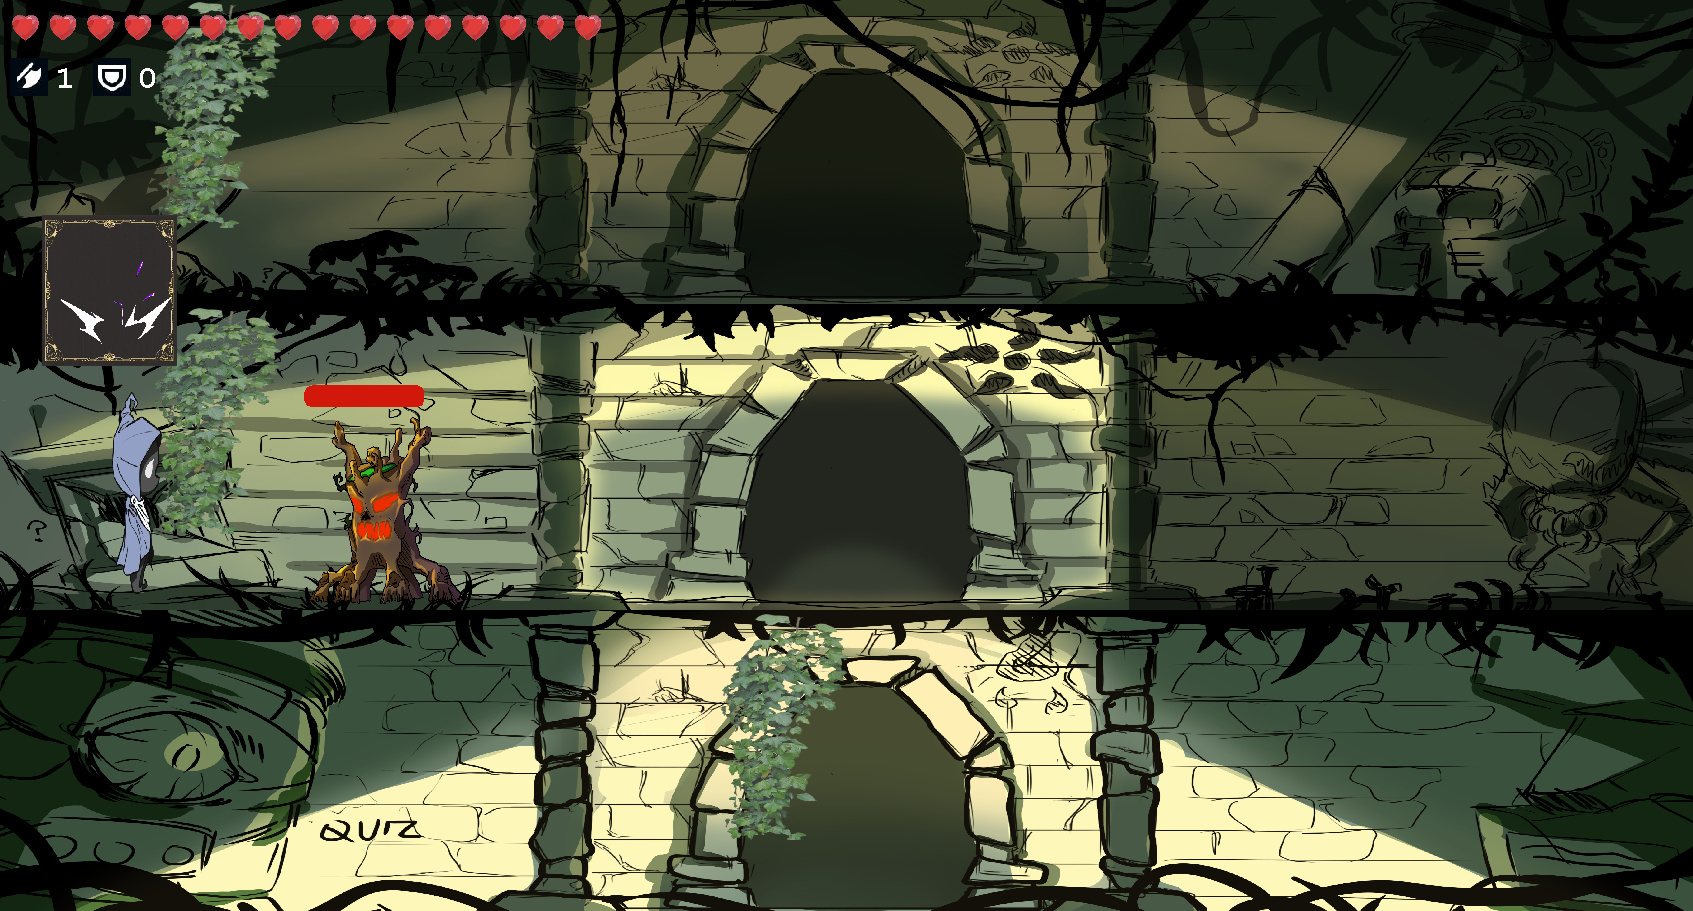
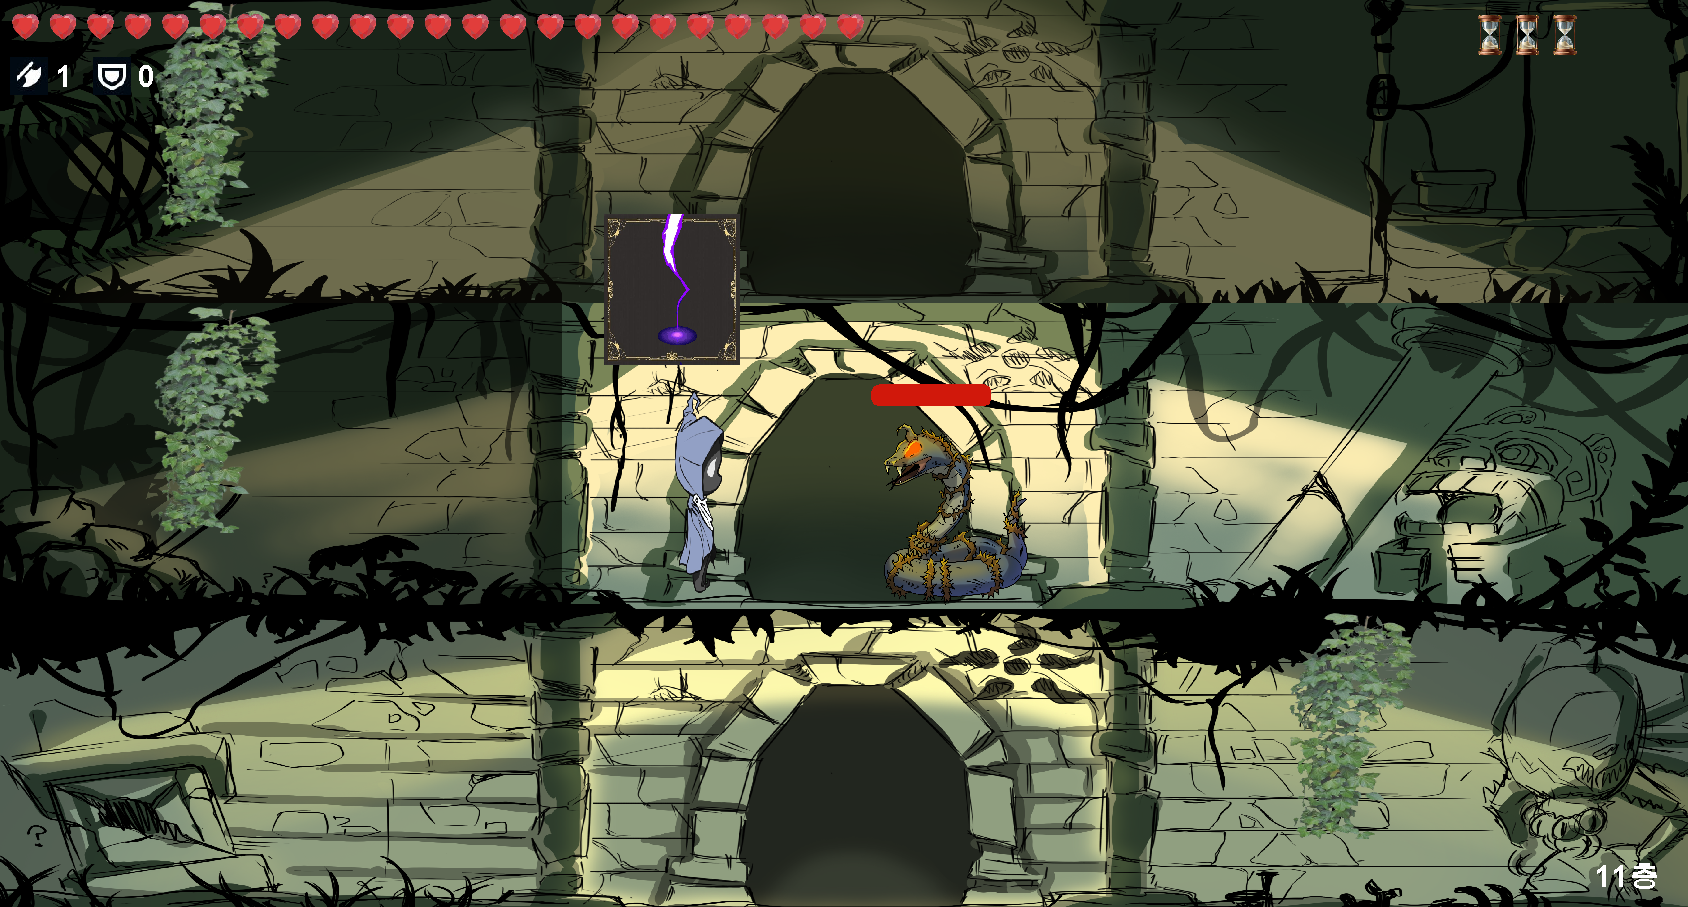
bug fix & show floor

diff --git a/src/shadow/TempleFrame.java b/src/shadow/TempleFrame.java
@@ -587,6 +587,9 @@ public class TempleFrame {
             for(int i=0;i<m.getCoolDown();i++) {
             	g.drawImage(sandglass, 25*i+W-150, 10, 20, 30, this);
             }
+            g.setFont(new Font("SansSerif",Font.BOLD,20));
+            g.setColor(Color.WHITE);
+            g.drawString(Integer.toString(floor)+"층", W-70, H-20);
             //g.setFont(new Font("monospaced",Font.BOLD,22));
             g.setColor(Color.WHITE);
             g.drawImage(attackIcon, 10, 40, 25, 25, this);
@@ -651,6 +654,7 @@ public class TempleFrame {
 			if(mainTurn&&!monAttack) {
 				if(new Rectangle(W-150, 10, 25*m.getCoolDown()+10, 30).contains(x,y)) {
 					m.useCoolDown();
+					return;
 				}
 				for(int i=0;i<4;i++) {
 					if(m.haveSkill(i)) {

diff --git a/src/shadow/MainCharacter.java b/src/shadow/MainCharacter.java
@@ -7,7 +7,7 @@ import java.util.Arrays;
 import javax.swing.ImageIcon;
 
 public class MainCharacter {
-	private int x,y,w,h,lv,Width,Height,roomN,floor,attack,defense,hp,skillN,coolDown=0;	// floor 위에서 부터 0,1,2층
+	private int x,y,w,h,lv,Width,Height,roomN,floor,attack,defense,hp,skillN,coolDown=2;	// floor 위에서 부터 0,1,2층
 	private Image img;
 	int skillX[] = new int[4];
 	int skillY[] = new int[4];

diff --git a/src/shadow/Main.java b/src/shadow/Main.java
@@ -3,7 +3,7 @@ package shadow;
 public class Main {
 	public static void main(String[] args) {
 		// TODO Auto-generated method stub
-		new GameMenu();
-		// new TempleFrame();
+		// new GameMenu();
+		new TempleFrame();
 	}
 }
